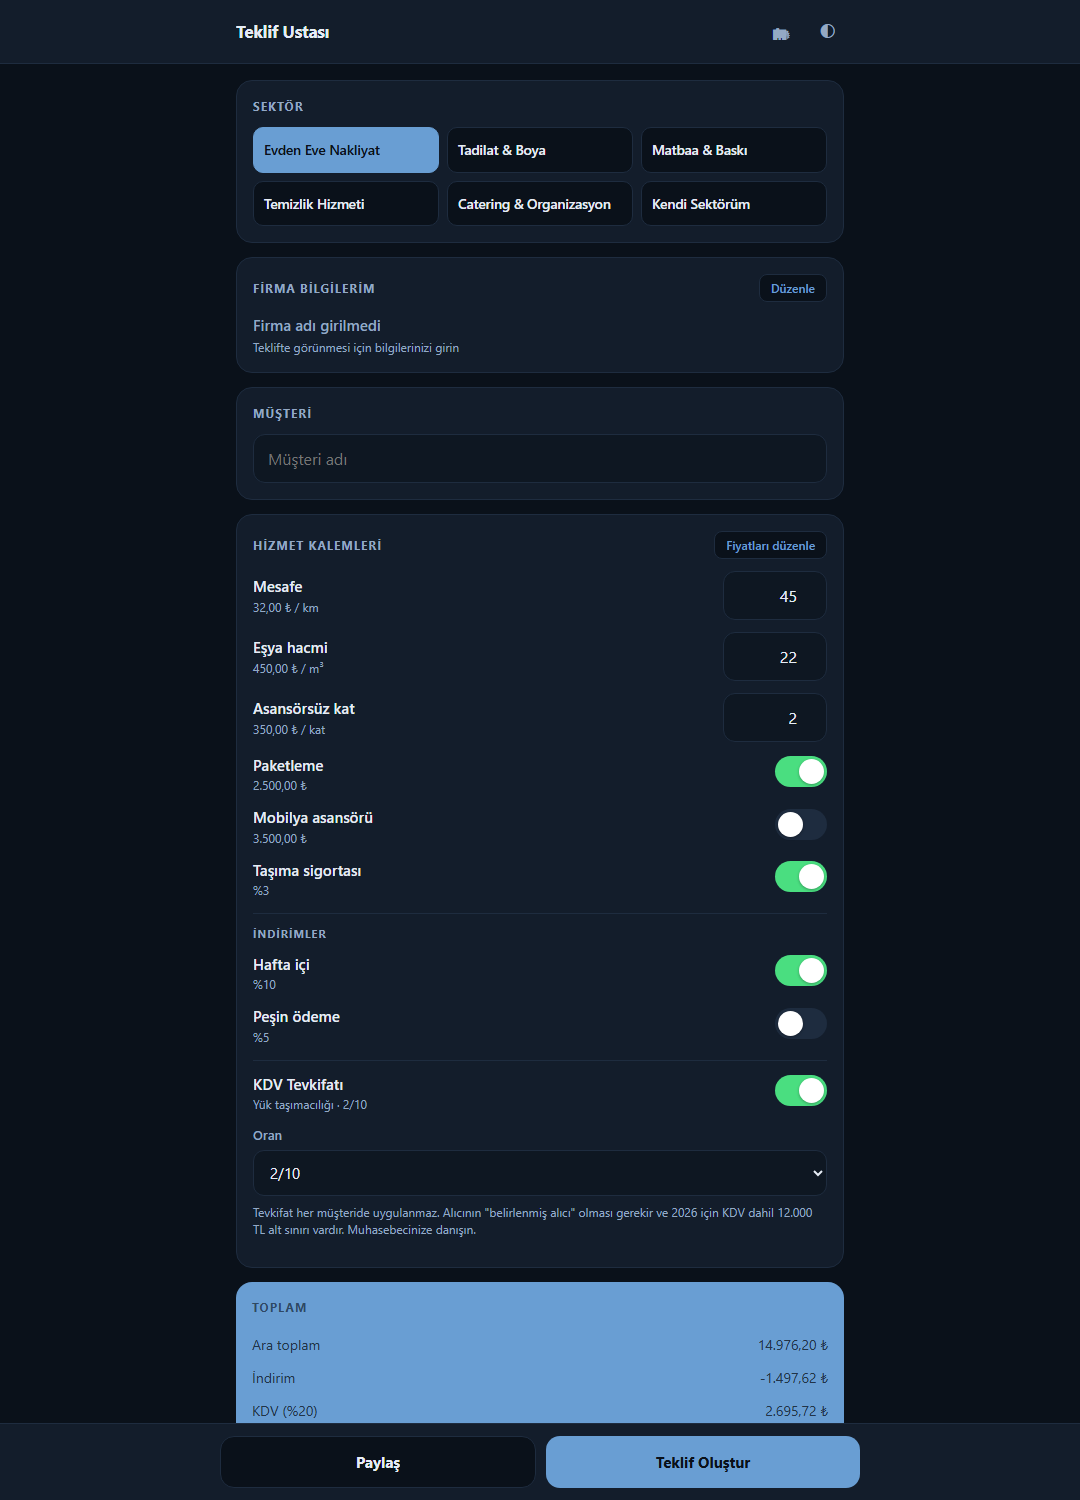
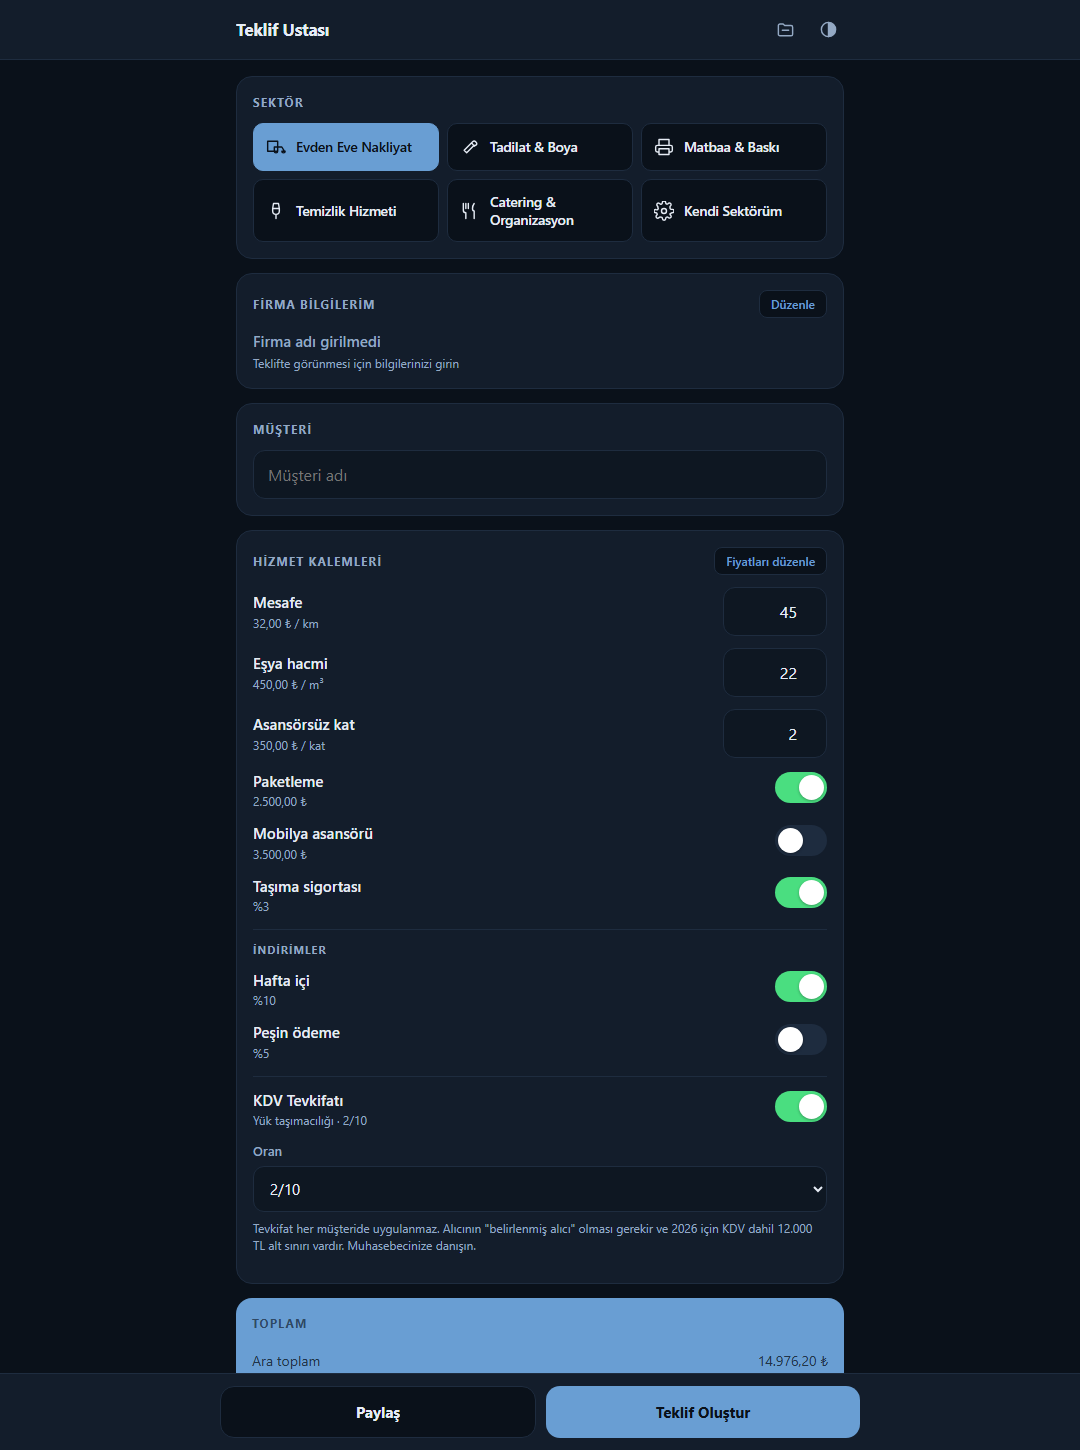
SVG ikonlar: emoji yerine cizgi ikonlar
6 sektore ozel SVG ikon eklendi. Ust bardaki gecmis ve tema butonlari
da emoji yerine SVG oldu.

currentColor kullaniliyor: ikon bulundugu ogenin rengini aliyor, secili
sektor kartinda otomatik beyaza donuyor. Emoji ile bu mumkun degildi -
rengi sabit ve her isletim sisteminde farkli ciziliyor.

Rakip taramasi: Parasut 16, Bizimhesap 16, Teklifcim 2 SVG kullaniyor;
hicbirinde emoji yok. Isbasi/Evobulut/Planports hic ikon kullanmamis.

Claude-Session: https://claude.ai/code/session_018Fw48mqV4uZVUpKn8kGiWb

diff --git a/index.html b/index.html
@@ -45,8 +45,9 @@ body{margin:0;background:var(--bg);color:var(--metin);
 .ust-ic{max-width:640px;margin:0 auto;padding:14px 16px;
   display:flex;align-items:center;gap:12px}
 .ust h1{font-size:17px;margin:0;font-weight:700;letter-spacing:-.2px;flex:1}
-.ust button{background:none;border:none;color:var(--soluk);font-size:20px;
-  cursor:pointer;padding:4px 8px;border-radius:8px}
+.ust button{background:none;border:none;color:var(--soluk);cursor:pointer;
+  padding:6px;border-radius:8px;display:flex;align-items:center}
+.ust button:active{transform:scale(.92)}
 .sar{max-width:640px;margin:0 auto;padding:16px}
 .kart{background:var(--kart);border:1px solid var(--cizgi);border-radius:16px;
   padding:16px;margin-bottom:14px}
@@ -54,8 +55,10 @@ body{margin:0;background:var(--bg);color:var(--metin);
   color:var(--soluk);margin:0 0 12px;font-weight:700}
 .sektorler{display:grid;grid-template-columns:repeat(auto-fit,minmax(150px,1fr));gap:8px}
 .sektor{background:var(--bg);border:1px solid var(--cizgi);border-radius:10px;
-  padding:13px 10px;text-align:left;cursor:pointer;transition:.12s;font-size:13.5px;
-  font-weight:600;color:var(--metin);line-height:1.3}
+  padding:13px 12px;cursor:pointer;transition:.12s;font-size:13.5px;
+  font-weight:600;color:var(--metin);line-height:1.3;
+  display:flex;align-items:center;gap:10px}
+.sektor .sikon{width:20px;height:20px;flex:none}
 .sektor:active{transform:scale(.96)}
 .sektor.secili{border-color:var(--vurgu);background:var(--vurgu);color:var(--vurgu-metin);border-width:1px}
 label{display:block;font-size:13px;color:var(--soluk);margin-bottom:5px;font-weight:600}
@@ -115,8 +118,16 @@ dialog::backdrop{background:rgba(0,0,0,.55)}
 
 <div class="ust yazdirma-gizle"><div class="ust-ic">
   <h1>Teklif Ustası</h1>
-  <button id="gecmisAc" title="Geçmiş">🗂</button>
-  <button id="temaBtn" title="Tema">◐</button>
+  <button id="gecmisAc" title="Geçmiş" aria-label="Geçmiş teklifler">
+    <svg viewBox="0 0 24 24" width="19" height="19" fill="none" stroke="currentColor"
+      stroke-width="1.8" stroke-linecap="round" stroke-linejoin="round">
+      <path d="M3 7a2 2 0 012-2h4l2 2h8a2 2 0 012 2v9a2 2 0 01-2 2H5a2 2 0 01-2-2V7z"/>
+      <path d="M8 13h8"/></svg></button>
+  <button id="temaBtn" title="Tema" aria-label="Tema değiştir">
+    <svg viewBox="0 0 24 24" width="19" height="19" fill="none" stroke="currentColor"
+      stroke-width="1.8" stroke-linecap="round" stroke-linejoin="round">
+      <circle cx="12" cy="12" r="9"/><path d="M12 3v18" fill="currentColor"/>
+      <path d="M12 3a9 9 0 010 18z" fill="currentColor" stroke="none"/></svg></button>
 </div></div>
 
 <div class="sar">

diff --git a/sektorler.js b/sektorler.js
@@ -9,6 +9,7 @@ const TEVKIFAT_ORANLARI = ["2/10","3/10","4/10","5/10","7/10","9/10","10/10"];
 
 const SEKTORLER = {
   nakliyat: {
+    ikon: `<path d="M10 17h4V5H2v12h3m5 0H5m5 0v-5h9l3 5h-3m-9 0a2 2 0 104 0m5 0a2 2 0 104 0"/>`,
     ad: "Evden Eve Nakliyat",
     kdv: 20,
     tevkifat: { oran: "2/10", ad: "Yük taşımacılığı" },
@@ -33,6 +34,7 @@ const SEKTORLER = {
   },
 
   tadilat: {
+    ikon: `<path d="M14 7l-9 9 3 3 9-9M14 7l1.5-1.5a2.1 2.1 0 013 0l1 1a2.1 2.1 0 010 3L17 11M14 7l3 4"/>`,
     ad: "Tadilat & Boya",
     kdv: 20,
     tevkifat: { oran: "4/10", ad: "Yapım işleri" },
@@ -56,6 +58,7 @@ const SEKTORLER = {
   },
 
   matbaa: {
+    ikon: `<path d="M6 9V3h12v6M6 18H4a2 2 0 01-2-2v-4a2 2 0 012-2h16a2 2 0 012 2v4a2 2 0 01-2 2h-2M6 14h12v7H6z"/>`,
     ad: "Matbaa & Baskı",
     kdv: 20,
     kalemler: [
@@ -78,6 +81,7 @@ const SEKTORLER = {
   },
 
   temizlik: {
+    ikon: `<path d="M9 3h6l1 6H8l1-6zM8 9v3a4 4 0 004 4 4 4 0 004-4V9M12 16v5"/>`,
     ad: "Temizlik Hizmeti",
     kdv: 20,
     tevkifat: { oran: "9/10", ad: "Temizlik hizmeti" },
@@ -101,6 +105,7 @@ const SEKTORLER = {
   },
 
   catering: {
+    ikon: `<path d="M4 3v8a3 3 0 003 3v7M7 3v6M10 3v6M17 3c-1.5 2-2 4-2 6s.5 3 2 3v9"/>`,
     ad: "Catering & Organizasyon",
     kdv: 10,
     kalemler: [
@@ -123,6 +128,7 @@ const SEKTORLER = {
   },
 
   ozel: {
+    ikon: `<path d="M12 15a3 3 0 100-6 3 3 0 000 6z"/><path d="M19.4 15a1.6 1.6 0 00.3 1.8l.1.1a2 2 0 11-2.8 2.8l-.1-.1a1.6 1.6 0 00-1.8-.3 1.6 1.6 0 00-1 1.5V21a2 2 0 11-4 0v-.1A1.6 1.6 0 008 19.4a1.6 1.6 0 00-1.8.3l-.1.1a2 2 0 11-2.8-2.8l.1-.1a1.6 1.6 0 00.3-1.8 1.6 1.6 0 00-1.5-1H2a2 2 0 110-4h.1A1.6 1.6 0 004.6 8a1.6 1.6 0 00-.3-1.8l-.1-.1a2 2 0 112.8-2.8l.1.1a1.6 1.6 0 001.8.3H9a1.6 1.6 0 001-1.5V2a2 2 0 114 0v.1a1.6 1.6 0 001 1.5 1.6 1.6 0 001.8-.3l.1-.1a2 2 0 112.8 2.8l-.1.1a1.6 1.6 0 00-.3 1.8V9a1.6 1.6 0 001.5 1H22a2 2 0 110 4h-.1a1.6 1.6 0 00-1.5 1z"/>`,
     ad: "Kendi Sektörüm",
     kdv: 20,
     kalemler: [

diff --git a/app.js b/app.js
@@ -155,7 +155,9 @@ function hesapla() {
 function sektorleriCiz() {
   $("#sektorler").innerHTML = Object.entries(SEKTORLER).map(([kod, s]) => `
     <div class="sektor ${kod === durum.sektor ? "secili" : ""}" data-kod="${kod}">
-      ${s.ad}
+      <svg class="sikon" viewBox="0 0 24 24" fill="none" stroke="currentColor"
+        stroke-width="1.7" stroke-linecap="round" stroke-linejoin="round">${s.ikon}</svg>
+      <span>${s.ad}</span>
     </div>`).join("");
 
   document.querySelectorAll(".sektor").forEach(el => {

diff --git a/sw.js b/sw.js
@@ -1,5 +1,5 @@
 // Service worker — uygulamanin internetsiz calismasini saglar.
-const ONBELLEK = "teklif-ustasi-v12";
+const ONBELLEK = "teklif-ustasi-v13";
 const DOSYALAR = ["./", "./index.html", "./app.js", "./sektorler.js",
                   "./manifest.json", "./icon-192.png", "./icon-512.png", "./icon-512-maskable.png"];
 
